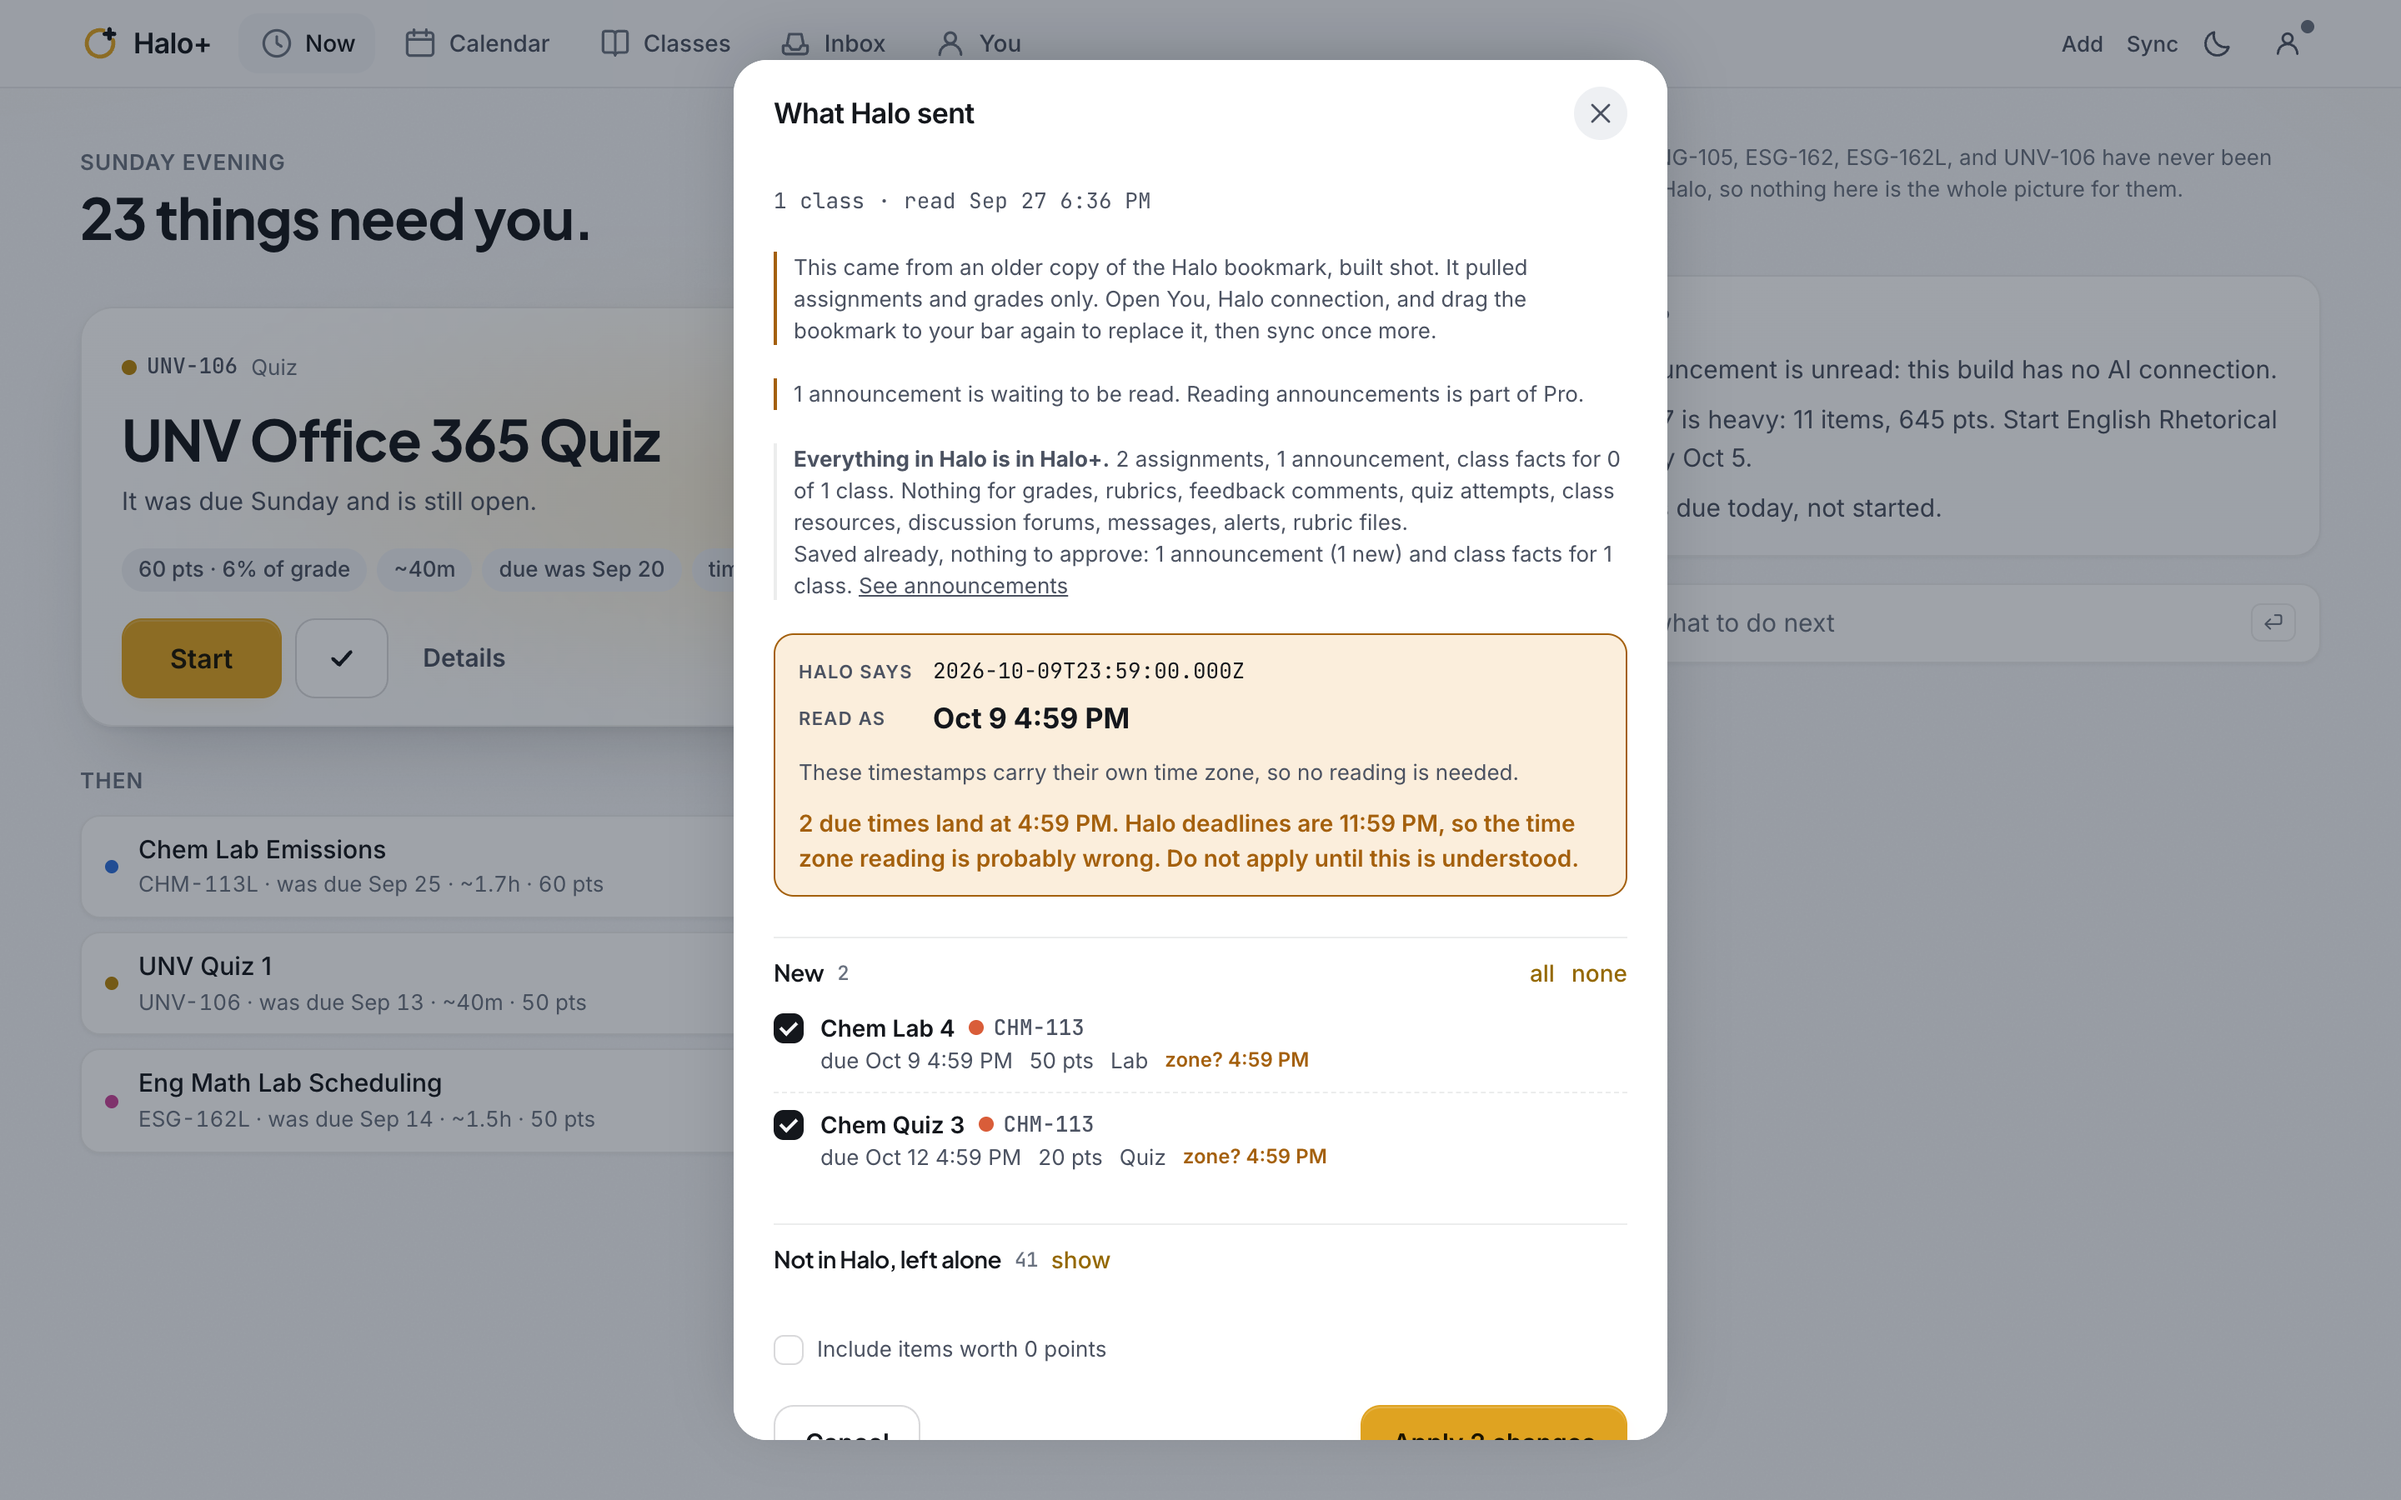
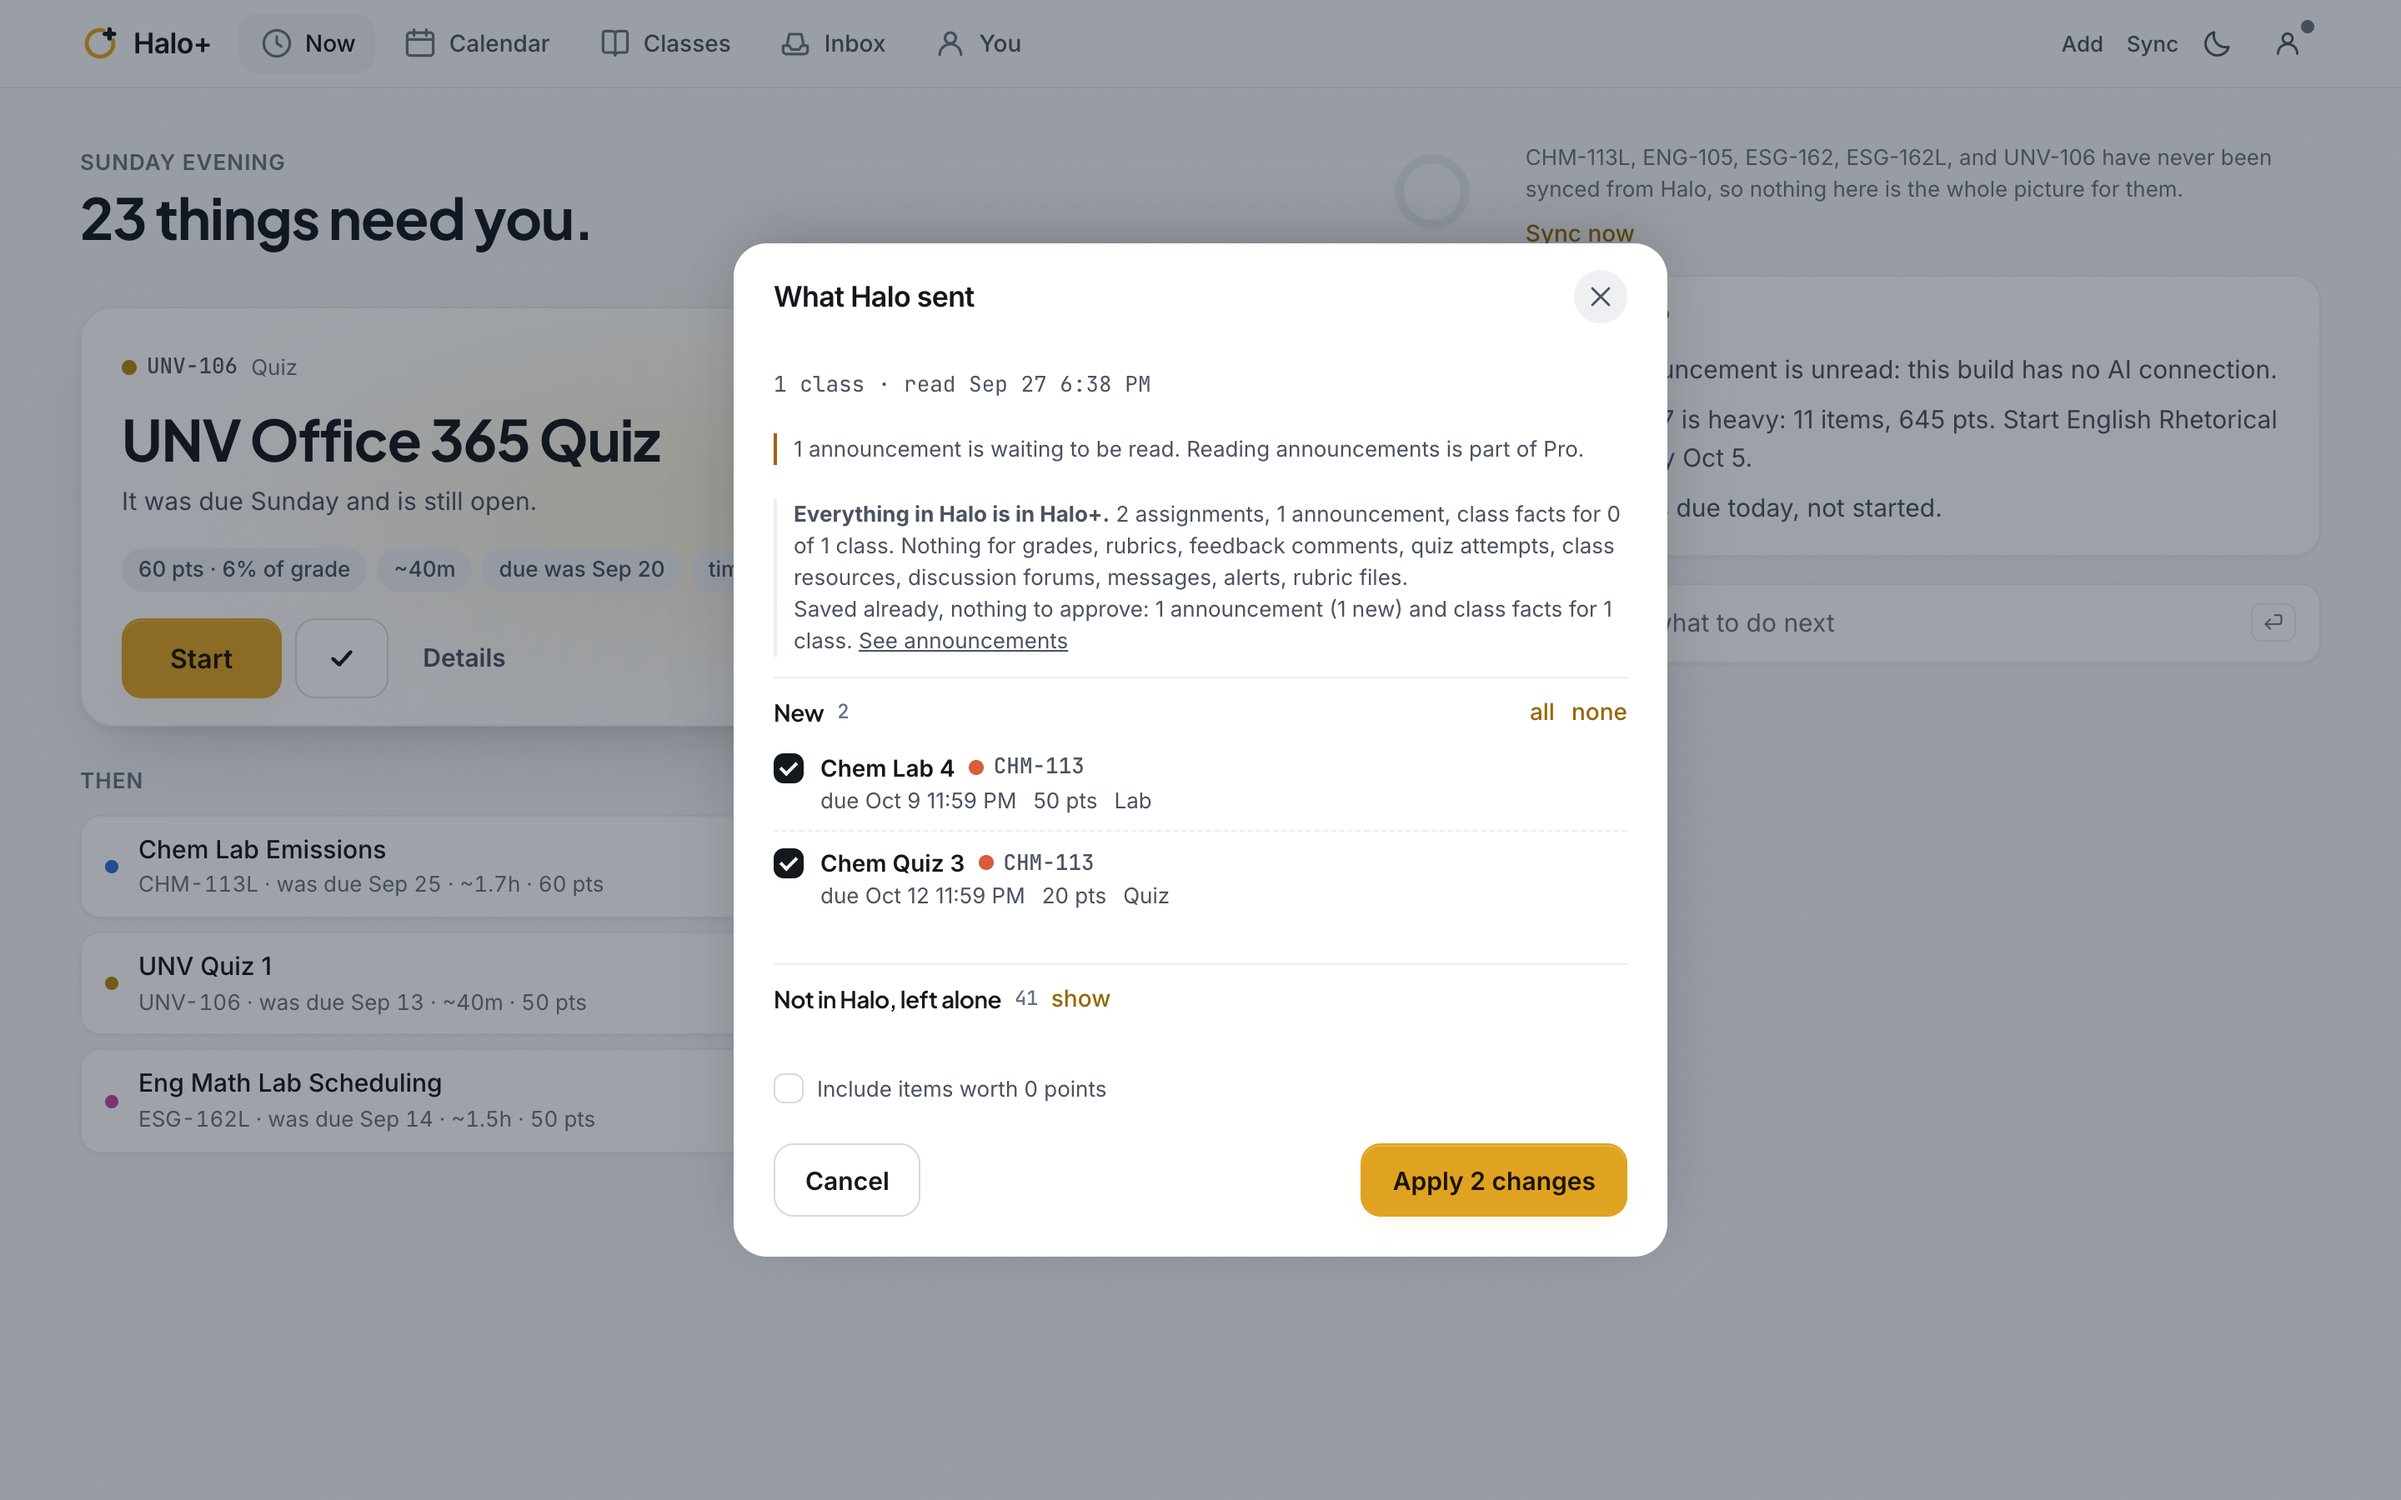
Loop 80: step-back sweep; the sync sheet's warning block no longer contradicts itself

Changed region(s): [[0.2812, 0.0311, 0.7188, 0.9644]]

diff --git a/src/views/DiffReview.tsx b/src/views/DiffReview.tsx
@@ -323,7 +323,7 @@ export function DiffReview({
                 onChange={(v) => setBareAs(v as BareDateMode)}
               />
             </div>
-          ) : (
+          ) : diff.zoneWarning ? null : (
             <p className="hint" style={{ margin: 0 }}>
               These timestamps carry their own time zone, so no reading is needed.
             </p>

diff --git a/LOOP_LOG.md b/LOOP_LOG.md
@@ -103,3 +103,4 @@ One line per change, newest last. Proposals that need George's approval are mark
 - 2026-09-27 · Loop 77 · Bug lens: an export whose instructor list held objects instead of strings crashed course normalisation, and with no error boundary anywhere the whole app went blank, onboarding included. Names now survive objects and junk (tested), and two boundaries stand: an inline one around the sync sheet ("Halo sent something this build could not read. Sync again… Dismiss") and a last-resort card with Reload around the whole app, so no render error can blank the screen again. Case added to scripts/baddata.mjs.
 - 2026-09-27 · Loop 78 · Declutter: the sync sheet showed a "Halo says / Read as" timestamp block and then said no reading was needed. It shows only when a reading is in question (a calendar export, bare timestamps, an odd hour).
 - 2026-09-27 · Loop 79 · Declutter: the sync sheet listed every section with a "0" (Changed 0, Submitted 0, Grades 0, No longer in Halo 0, Unchanged 0, Skipped 0) on a first sync; empty sections drop out, the summary line already says nothing else came.
+- 2026-09-27 · Loop 80 · Step back. Regression sweep after the last twenty loops: accessibility sweep clean, two-tab probe passes, live functions reachable, bad-data probe standing (77), production smoke as a stranger (65, 66), account-level reader check on the real path (70–72). Small fix on the way: the sync sheet's warning block said "no reading is needed" directly above "the reading is probably wrong"; the first line stands down when the warning shows. The seeded sync-review capture is a normal sync now (current bookmark, Halo's real 11:59 PM times).
